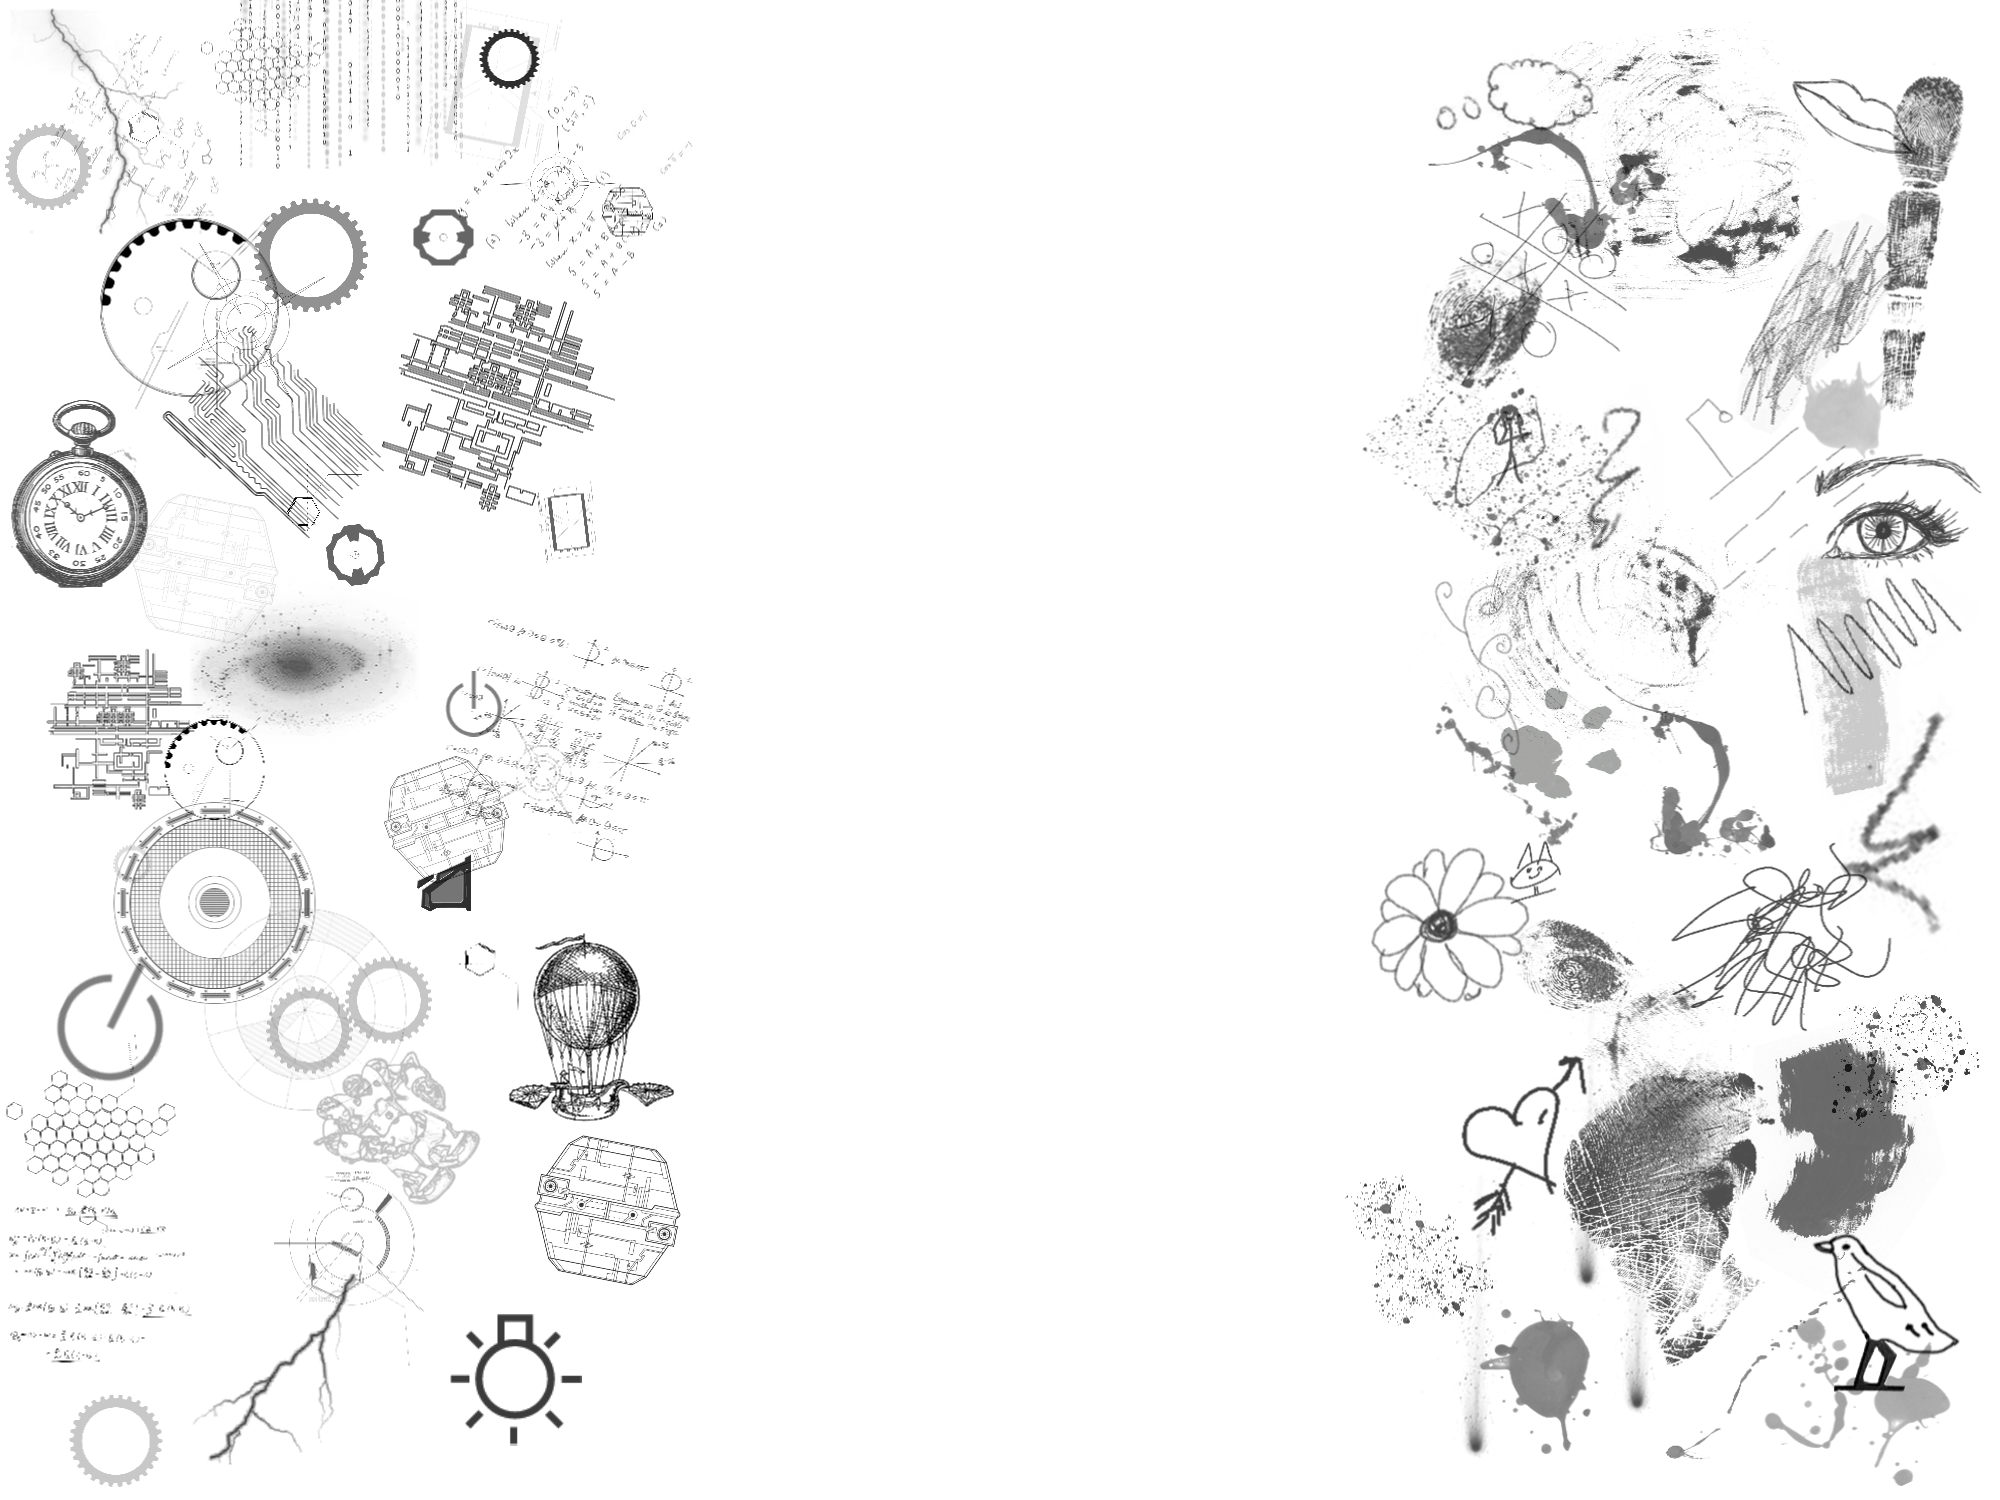
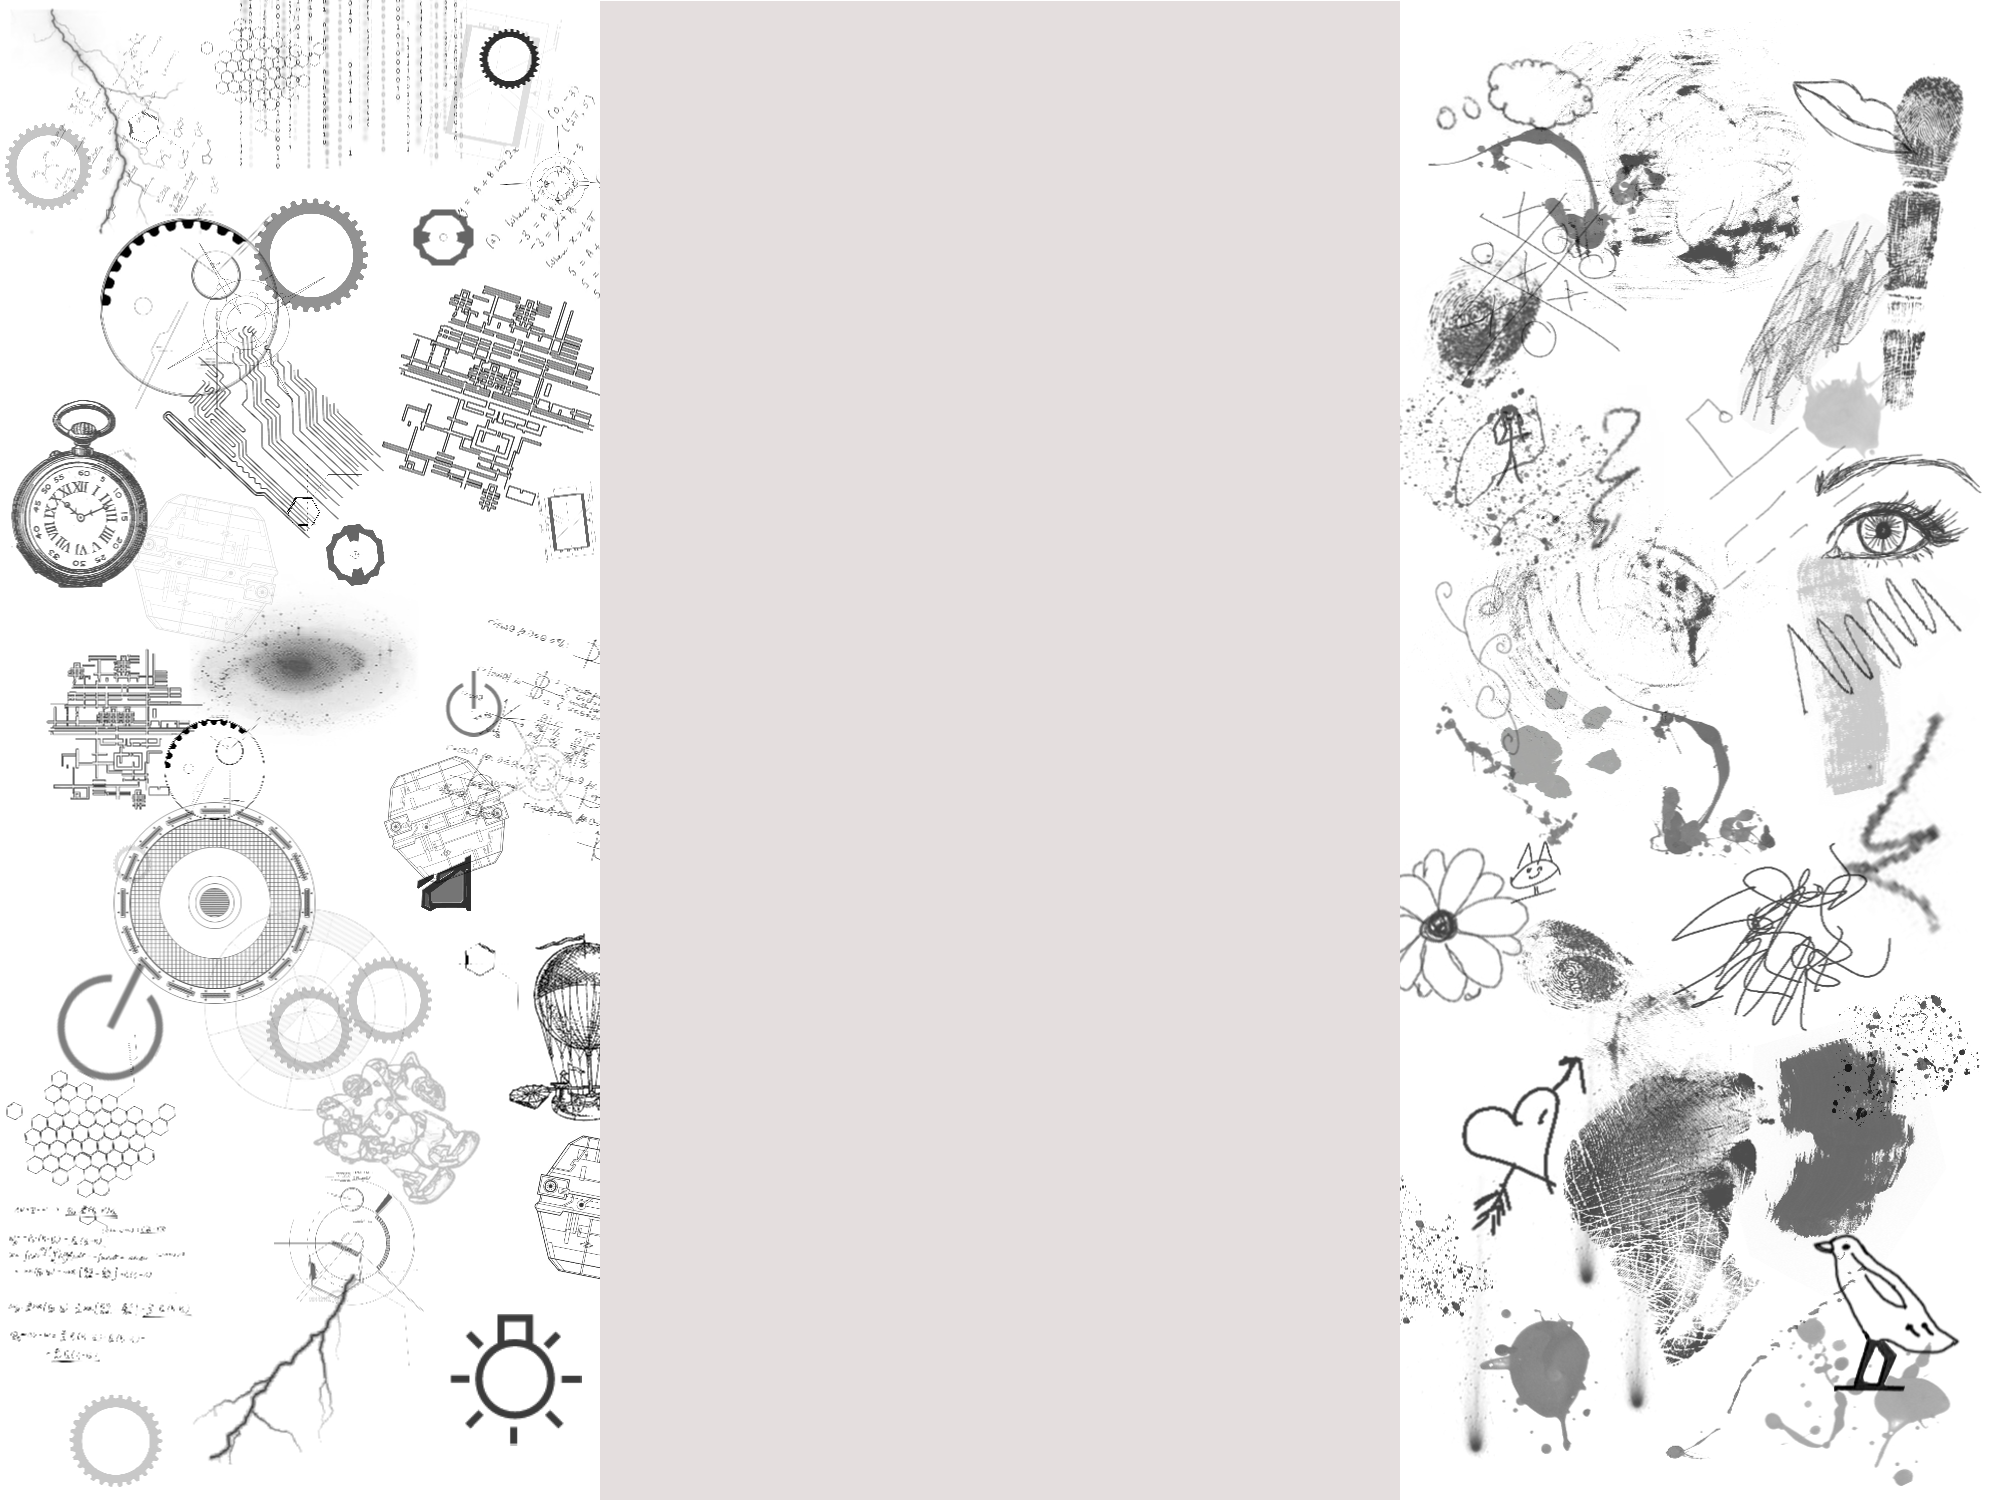
sticky footer and filled in body color

diff --git a/_sass/_base.scss b/_sass/_base.scss
@@ -24,6 +24,10 @@ body {
     background-position: top center;
 }
 
+html, body {
+    height: 100%;
+}
+
 /**
  * Set `margin-bottom` to maintain vertycal rhythm
  */
@@ -147,7 +151,11 @@ pre {
     }
 }
 
-
+#container {
+  min-height: 100%;
+  margin-bottom: -116px;
+  position: relative;
+}
 
 /**
  * Wrapper
@@ -160,7 +168,7 @@ pre {
     padding-right: $spacing-unit;
     padding-left: $spacing-unit;
     background-color: #E4DEDE;
-    @extend %clearfix;
+   @extend %clearfix;
 
     @include media-query($on-laptop) {
         max-width: -webkit-calc(800px - (#{$spacing-unit}));
@@ -170,7 +178,9 @@ pre {
     }
 }
 
-
+.page-content .wrapper {
+  padding-bottom: 116px;
+}
 
 /**
  * Clearfix

diff --git a/_layouts/default.html b/_layouts/default.html
@@ -4,15 +4,15 @@
   {% include head.html %}
 
   <body>
+    <div id="container">
+       {% include header.html %}
 
-    {% include header.html %}
-
-    <div class="page-content">
-      <div class="wrapper">
-        {{ content }}
-      </div>
+       <div class="page-content">
+         <div class="wrapper">
+           {{ content }}
+         </div>
+       </div>
     </div>
-
     {% include footer.html %}
 
   </body>

diff --git a/_sass/_layout.scss b/_sass/_layout.scss
@@ -92,6 +92,8 @@
  * Site footer
  */
 .site-footer {
+  height: 116px;
+  position: relative;
   /*  border-top: 1px solid $grey-color-light;
      padding: $spacing-unit 0; */
 }
